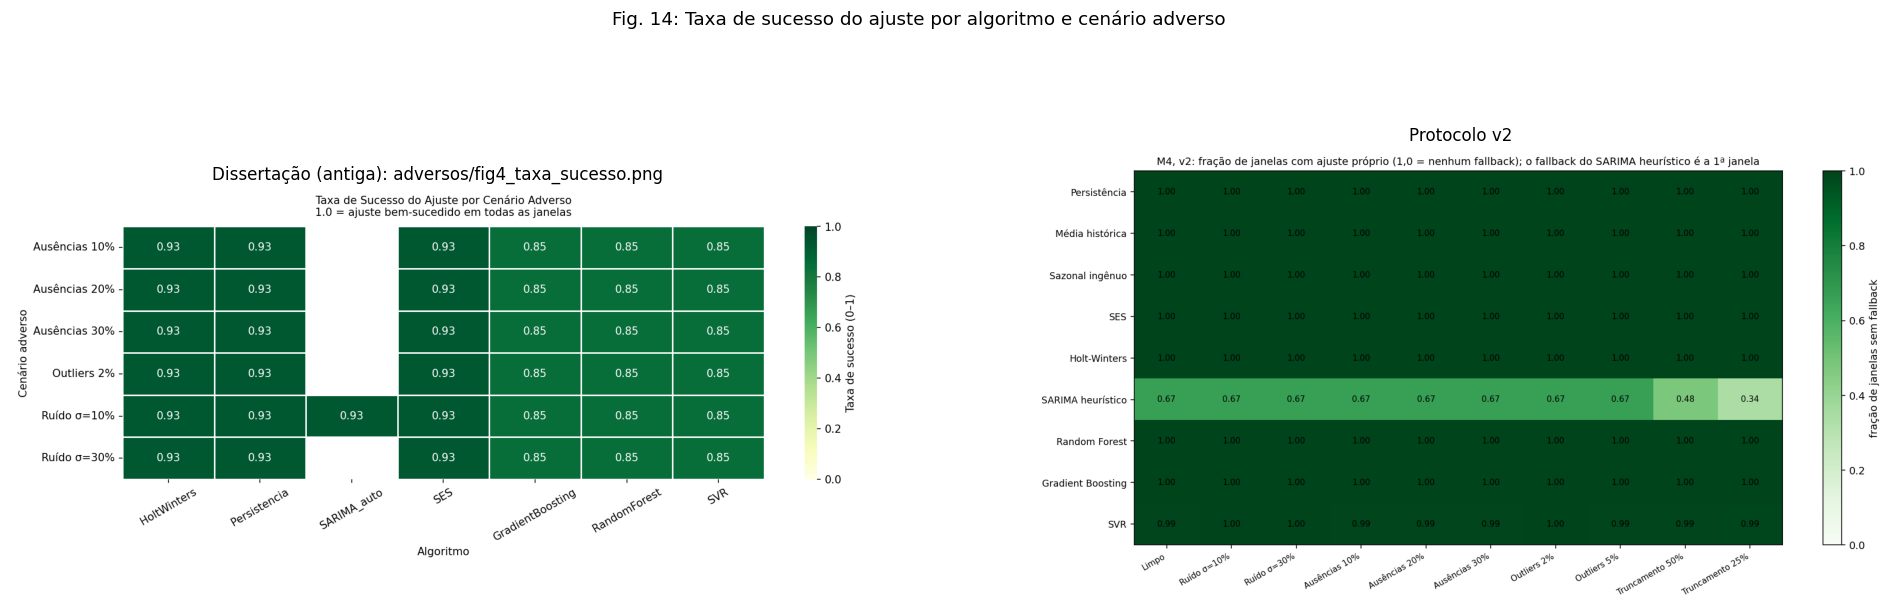
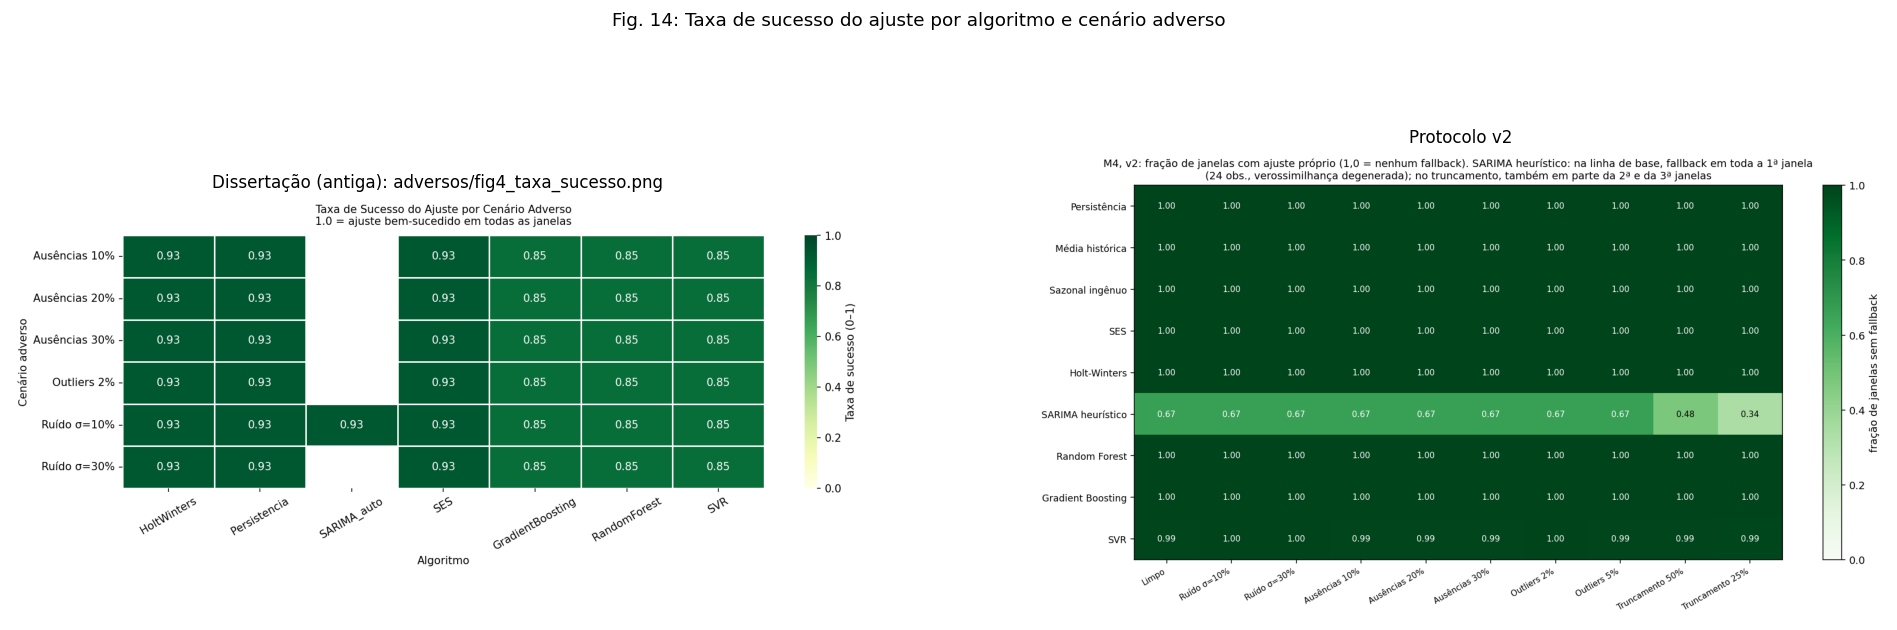
Figs. 13 e 14 v2: rótulos corrigidos; Fase 5 lê os valores antigos congelados
- Fig. 13: título e barra de cores passam a dizer "Δ% do MAPE" (relativo à
  linha de base). Os asteriscos já eram um só por célula (IC exclui zero).
- Fig. 14: o título detalha o fallback do SARIMA heurístico, conferido nos
  caches: na linha de base, as 200 janelas em fallback (de 600) são todas
  da 1ª origem (24 obs.), todas por verossimilhança degenerada (nenhuma por
  treino constante); no truncamento, também em parte da 2ª e da 3ª janelas.
  Texto branco nas células escuras, para legibilidade.
- nb12_fase5_v2.py: como o .docx está em reescrita (sha256 c95301cc...), os
  valores antigos das Tabelas 3 a 7 passam a vir das cópias congeladas em
  fase5/antigo_dissertacao/ (lidas do .docx da Fase 5, sha256 bbd41343...)
  sempre que o .docx não for mais o da Fase 5. Todos os CSVs da Fase 5
  saíram idênticos; só as Figs. 13 e 14 mudaram.
- Cópias das duas figuras em para_escrita/arquivos/ atualizadas.

diff --git a/tools/nb_builders/nb12_fase5_v2.py b/tools/nb_builders/nb12_fase5_v2.py
@@ -15,7 +15,7 @@ Consolida em `results/v2/fase5/` (i) as Tabelas 3 a 7 da dissertação com o val
 
 **Regras desta fase**
 - Só leitura dos caches v2 (nenhum modelo de previsão é reexecutado). Cálculo novo, leve: bootstrap de ranks, CV da Fig. 18 a partir dos caches da 2c, importância nativa da Fig. 12 (um ajuste de RF e GB numa série) e as previsões das séries de exemplo das Figs. 10 e 26.
-- Valores antigos lidos do `.docx` da dissertação **só para leitura** (o arquivo não é alterado; o SHA-256 vai no `.meta.json`).
+- Valores antigos lidos do `.docx` da dissertação **só para leitura** (o arquivo não é alterado; o SHA-256 vai no `.meta.json`). Se o `.docx` mudou desde a Fase 5 (reescrita da dissertação), os valores antigos vêm das cópias congeladas em `fase5/antigo_dissertacao/`.
 - SARIMA e SVR sempre com e sem fallback; SARIMA também sem as janelas explosivas; baselines triviais separados nos rankings de robustez; Δ% com sinal; IC 95% por bootstrap pareado por série (2000).
 - Replicação: no Tourism, os rótulos oficiais das **200 séries** (`tm/replicacao_previsoes_tm.csv`), sem reinterpretação; no M4 e no Car Parts, os **critérios numéricos registrados para o Tourism aplicados a posteriori**, com a formulação qualitativa da dissertação ao lado. A sensibilidade com 366 séries fica em arquivo separado.
 - Limiares da Tabela 4 e critérios da Tabela 5 foram definidos depois de ver o M4 (não são pré-registrados).
@@ -65,20 +65,30 @@ def num(s):
         return np.nan
 
 # ---- tabelas da dissertação (somente leitura do .docx)
+# "Antigo" = a dissertação como estava na Fase 5 (sha256 abaixo). Se o .docx mudou (reescrita em curso),
+# os valores antigos vêm das cópias congeladas em fase5/antigo_dissertacao/, gravadas na Fase 5 a partir dele.
[1 lines of base64/hex data omitted]
 W = '{http://schemas.openxmlformats.org/wordprocessingml/2006/main}'
-DOCX_SHA = hashlib.sha256(DOCX.read_bytes()).hexdigest()
-_root_xml = ET.fromstring(zipfile.ZipFile(DOCX).read('word/document.xml'))
-def _tab(t):
-    rows = [[''.join(x.text or '' for x in c.iter(W + 't')).strip() for c in r.findall(W + 'tc')] for r in t.findall(W + 'tr')]
-    return pd.DataFrame(rows[1:], columns=rows[0])
-TD = [_tab(t) for t in _root_xml.iter(W + 'tbl')]
-ANT = {3: TD[3], 4: TD[4], 5: TD[5], 6: TD[6], 7: TD[7]}   # TD[0] licença, TD[1] Tabela 1, TD[2] Tabela 2
+DOCX_SHA_ATUAL = hashlib.sha256(DOCX.read_bytes()).hexdigest() if DOCX.exists() else None
+if DOCX_SHA_ATUAL == DOCX_SHA_FASE5:
+    _root_xml = ET.fromstring(zipfile.ZipFile(DOCX).read('word/document.xml'))
+    def _tab(t):
+        rows = [[''.join(x.text or '' for x in c.iter(W + 't')).strip() for c in r.findall(W + 'tc')] for r in t.findall(W + 'tr')]
+        return pd.DataFrame(rows[1:], columns=rows[0])
+    TD = [_tab(t) for t in _root_xml.iter(W + 'tbl')]
+    ANT = {3: TD[3], 4: TD[4], 5: TD[5], 6: TD[6], 7: TD[7]}   # TD[0] licença, TD[1] Tabela 1, TD[2] Tabela 2
+    for k, t in ANT.items():
+        t.to_csv(ANTD / f'tabela{k}_dissertacao.csv', index=False)
+    FONTE_ANT = f'.docx da Fase 5 (sha256 {DOCX_SHA_FASE5[:16]}), lido agora'
+else:
+    ANT = {k: pd.read_csv(ANTD / f'tabela{k}_dissertacao.csv', dtype=str, keep_default_na=False) for k in range(3, 8)}
+    FONTE_ANT = (f'cópias congeladas em {ANTD.relative_to(PROJECT_ROOT)} (lidas do .docx da Fase 5, sha256 {DOCX_SHA_FASE5[:16]}); '
+                 f'o .docx atual (sha256 {str(DOCX_SHA_ATUAL)[:16]}) está em reescrita e não é usado')
+DOCX_SHA = DOCX_SHA_FASE5
 assert list(ANT[3].columns) == ['Algoritmo', 'Família', 'MAPE (%)', 'MAE', 'R² mediano', 'Rank']
 assert ANT[4].columns[2] == 'Desemp. limpo' and ANT[5].columns[2] == 'Algoritmo recomendado'
 assert ANT[6].columns[0] == 'Característica' and ANT[7].columns[1] == 'MAE med.'
-for k, t in ANT.items():
-    t.to_csv(ANTD / f'tabela{k}_dissertacao.csv', index=False)
-print(f'.docx lido (sha256 {DOCX_SHA[:16]}); Tabelas 3 a 7 gravadas em {ANTD.relative_to(PROJECT_ROOT)}')
+print('Valores antigos (Tabelas 3 a 7):', FONTE_ANT)
 
 # ---- janelas v2 das três bases (com MASE)
 def carregar(sub, pasta, modelos=None):
@@ -588,8 +598,8 @@ for i in range(H.shape[0]):
         ax.text(j, i, f'{H.iloc[i, j]:+.1f}' + ('' if Z.iloc[i, j] else '*'), ha='center', va='center', fontsize=8)
 ax.set_xticks(range(len(CEN))); ax.set_xticklabels([pv.CENARIOS[c][2] for c in CEN], rotation=30, ha='right', fontsize=8)
 ax.set_yticks(range(len(RAP))); ax.set_yticklabels([NOMES[m] for m in RAP], fontsize=9)
-plt.colorbar(im, ax=ax, label='ΔMAPE relativo (%)')
-ax.set_title('M4, v2: ΔMAPE relativo (%) por modelo e cenário; * = IC 95% exclui zero (perturbação só no treino, teste limpo)', fontsize=10)
+plt.colorbar(im, ax=ax, label='Δ% do MAPE (relativo à linha de base)')
+ax.set_title('M4, v2: Δ% do MAPE por modelo e cenário; * = IC 95% exclui zero (perturbação só no treino, teste limpo)', fontsize=10)
 salvar(fig, 13, 'm4_heatmap_delta', 'Mapa de calor do ΔMAPE relativo (%) por algoritmo e cenário adverso',
        'HW +49,2 (ruído 30%) e +45,7 (outliers 2%), rotulados p.p.; ausências reduzem o MAPE de GB, RF e Persistência',
        f"HW {H.loc['holt_winters', 'A_ruido_30pct']:+.1f}% (ruído 30%) e {H.loc['holt_winters', 'C_outliers_2pct']:+.1f}% (outliers 2%); "
@@ -601,10 +611,12 @@ S = st.pivot(index='modelo', columns='cenario', values='OK (%)').loc[[NOMES[m] f
 fig, ax = plt.subplots(figsize=(14, 6.5)); im = ax.imshow(S.values, cmap='Greens', vmin=0, vmax=1, aspect='auto')
 for i in range(S.shape[0]):
     for j in range(S.shape[1]):
-        ax.text(j, i, f'{S.iloc[i, j]:.2f}', ha='center', va='center', fontsize=8)
+        ax.text(j, i, f'{S.iloc[i, j]:.2f}', ha='center', va='center', fontsize=8,
+                color='white' if S.iloc[i, j] > 0.6 else 'black')
 ax.set_xticks(range(S.shape[1])); ax.set_xticklabels(['Limpo'] + [pv.CENARIOS[c][2] for c in CEN], rotation=30, ha='right', fontsize=8)
 ax.set_yticks(range(S.shape[0])); ax.set_yticklabels(S.index, fontsize=9); plt.colorbar(im, ax=ax, label='fração de janelas sem fallback')
-ax.set_title('M4, v2: fração de janelas com ajuste próprio (1,0 = nenhum fallback); o fallback do SARIMA heurístico é a 1ª janela', fontsize=10)
+ax.set_title('M4, v2: fração de janelas com ajuste próprio (1,0 = nenhum fallback). SARIMA heurístico: na linha de base, fallback em toda a 1ª janela'
+             '\n(24 obs., verossimilhança degenerada); no truncamento, também em parte da 2ª e da 3ª janelas', fontsize=10)
 salvar(fig, 14, 'm4_taxa_sem_fallback', 'Taxa de sucesso do ajuste por algoritmo e cenário adverso',
        'taxas 0,93 e 0,85 atribuídas a "falha de convergência"',
        f"1,00 para todos exceto SARIMA heurístico ({S.loc['SARIMA heurístico'].min():.2f} a {S.loc['SARIMA heurístico'].max():.2f}) e SVR (≥ {S.loc['SVR'].min():.2f})",
@@ -1078,7 +1090,8 @@ assert all((F5 / k).exists() for k in DESC)
 idx.to_csv(F5 / 'indice_fase5.csv', index=False)
 meta = {'gerado_em': datetime.now().isoformat(timespec='seconds'), 'notebook': 'notebooks/12_fase5_comparativos_v2.ipynb',
         'pipeline_sha256_atual': pv.hash_pipeline(), 'pipeline_sha256_caches': hashes, 'versoes': pv.versoes(),
-        'dissertacao_docx': {'arquivo': DOCX.name, 'sha256': DOCX_SHA, 'uso': 'somente leitura das Tabelas 3 a 7'},
+        'dissertacao_docx': {'arquivo': DOCX.name, 'sha256': DOCX_SHA, 'uso': 'somente leitura das Tabelas 3 a 7',
+                             'fonte_dos_valores_antigos': FONTE_ANT},
         'bootstrap': {'n': 2000, 'seed': pv.SEED}, 'arquivos': DESC}
 (F5 / 'fase5.meta.json').write_text(json.dumps(meta, indent=2, ensure_ascii=False, default=str), encoding='utf-8')
 print(idx.to_string(index=False)); print(f'\nfiguras: {len(list(FIG.glob("*.png")))} PNG em {FIG.relative_to(PROJECT_ROOT)}')
